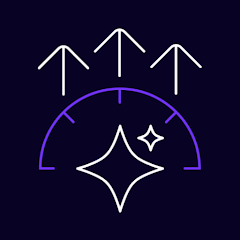
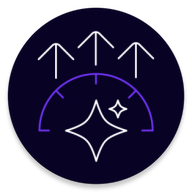
Add links to About page, update footer and thumbnails
- Add llama.cpp GitHub links to the bionic-reading poem
- Fix "a Windowslop" → "the Windowslop"
- Add Mogician's Manual to footer links, reorder app links
- Update thumbnails for Arm AI Chat and Mech Keeb Switches

diff --git a/source/about/index.md b/source/about/index.md
@@ -6,10 +6,10 @@ comments: false
 
 ## Naco Siren
 
-**I** **bu**ilt llama.cpp's **And**roid **bin**ding — **the** **new** **one**, **don**'t **you** **kn**ow,<br>**Bec**ause **Goo**gle's **Med**iaPipe **was** **ju**st. **too**. **da**mn. **sl**ow.
+**I** **bu**ilt [llama.cpp's **And**roid **bin**ding](https://github.com/ggml-org/llama.cpp/tree/master/examples/llama.android) — [**the** **new** **one**](https://github.com/ggml-org/llama.cpp/blob/master/docs/android.md#build-gui-binding-using-android-studio), **don**'t **you** **kn**ow,<br>**Bec**ause **Goo**gle's **Med**iaPipe **was** **ju**st. **too**. **da**mn. **sl**ow.
 
 **I** **als**o **bui**lt **the**se **han**dy **nat**ive **ap**ps **wi**th a **sna**ppy **int**utive **fl**ow,<br>**Bec**ause **the** **on**es **out** **the**re **are** **eit**her **non**existent **or** **bel**ow.
 
-**I** **us**ed **to** **bui**ld a **lot** **of** **Hac**kintosh — **wh**at a **sh**ow,<br>**Unl**eashing **eve**ry **PC** **fr**om a **Win**dowslop **dea**th **ro**w.
+**I** **us**ed **to** **bui**ld a **lot** **of** **Hac**kintosh — **wh**at a **sh**ow,<br>**Unl**eashing **eve**ry **PC** **fr**om the **Win**dowslop **dea**th **ro**w.
 
 **So** **he**re **I** **wi**sh **up**on a **fru**it: **th**at **one** **day** **Ti**m **or** **so**<br>**Wi**ll **sp**ot **th**is **bl**og **and** **dra**ft **me** **for** **the** **sac**red **kil**ling **bl**ow —<br>A **ho**ly **cru**sade, a **rig**hteous **mar**ch, **to** **lay** **Mic**roslop **lo**w.
